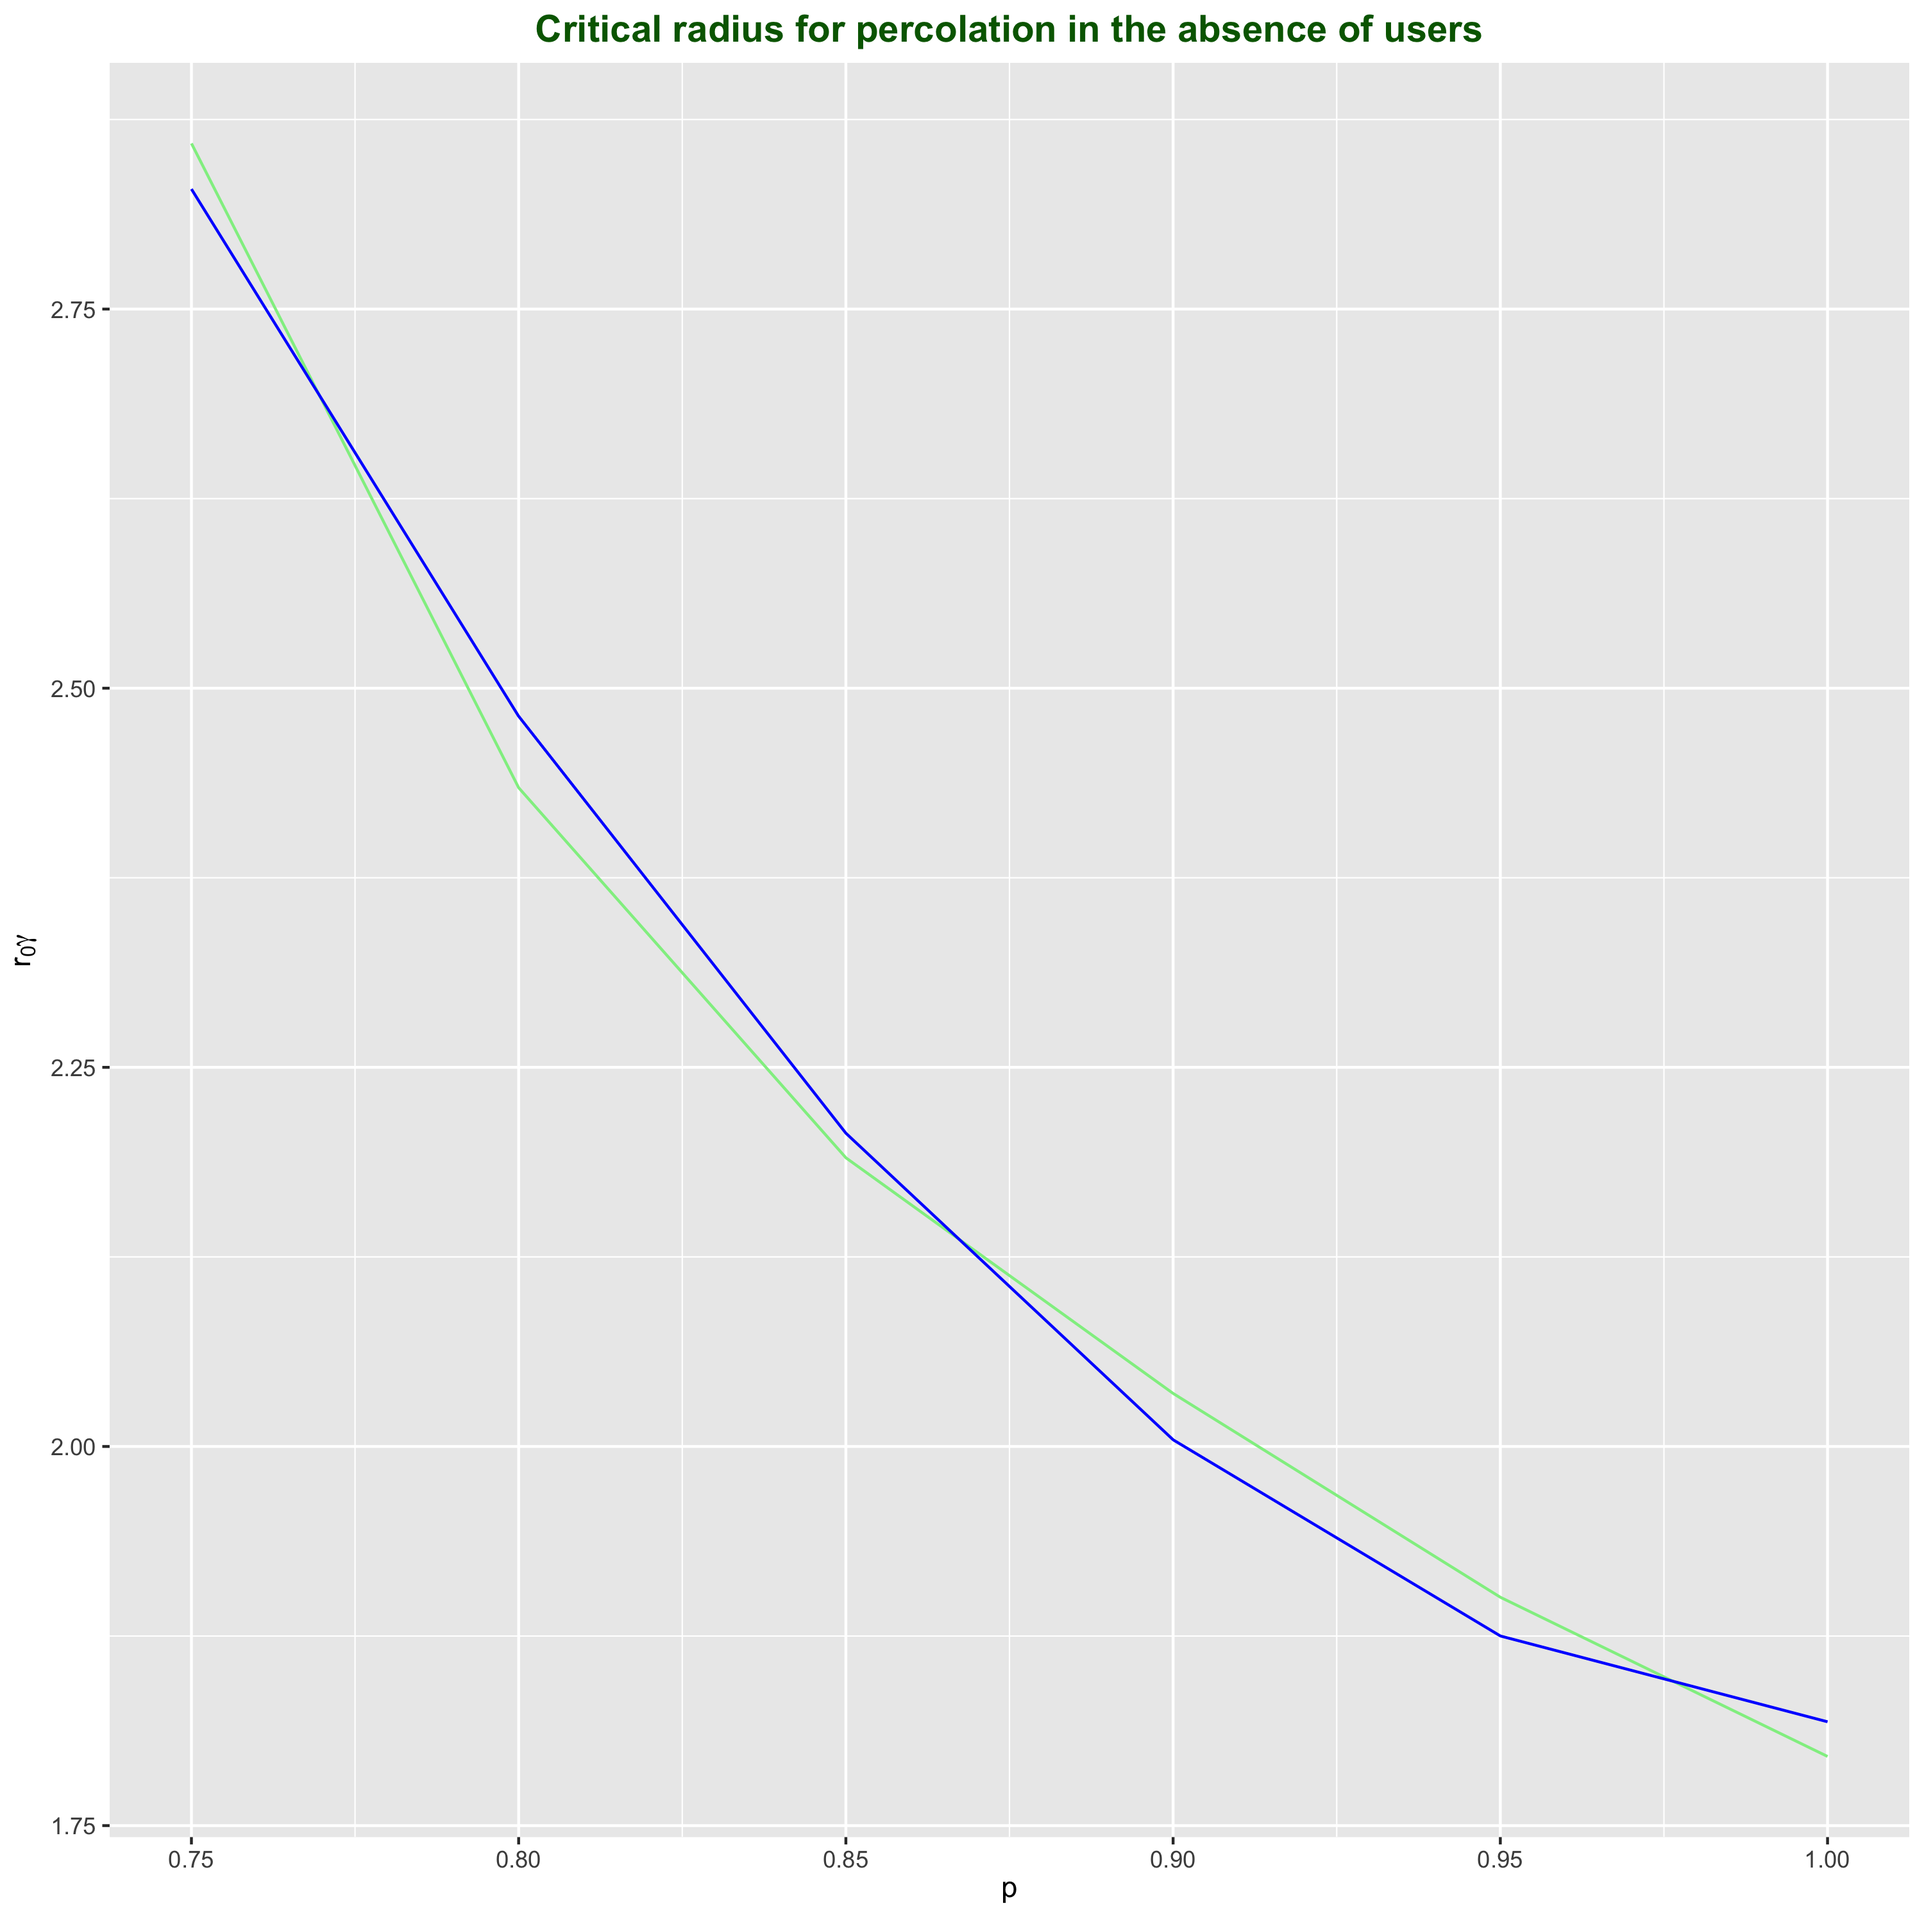
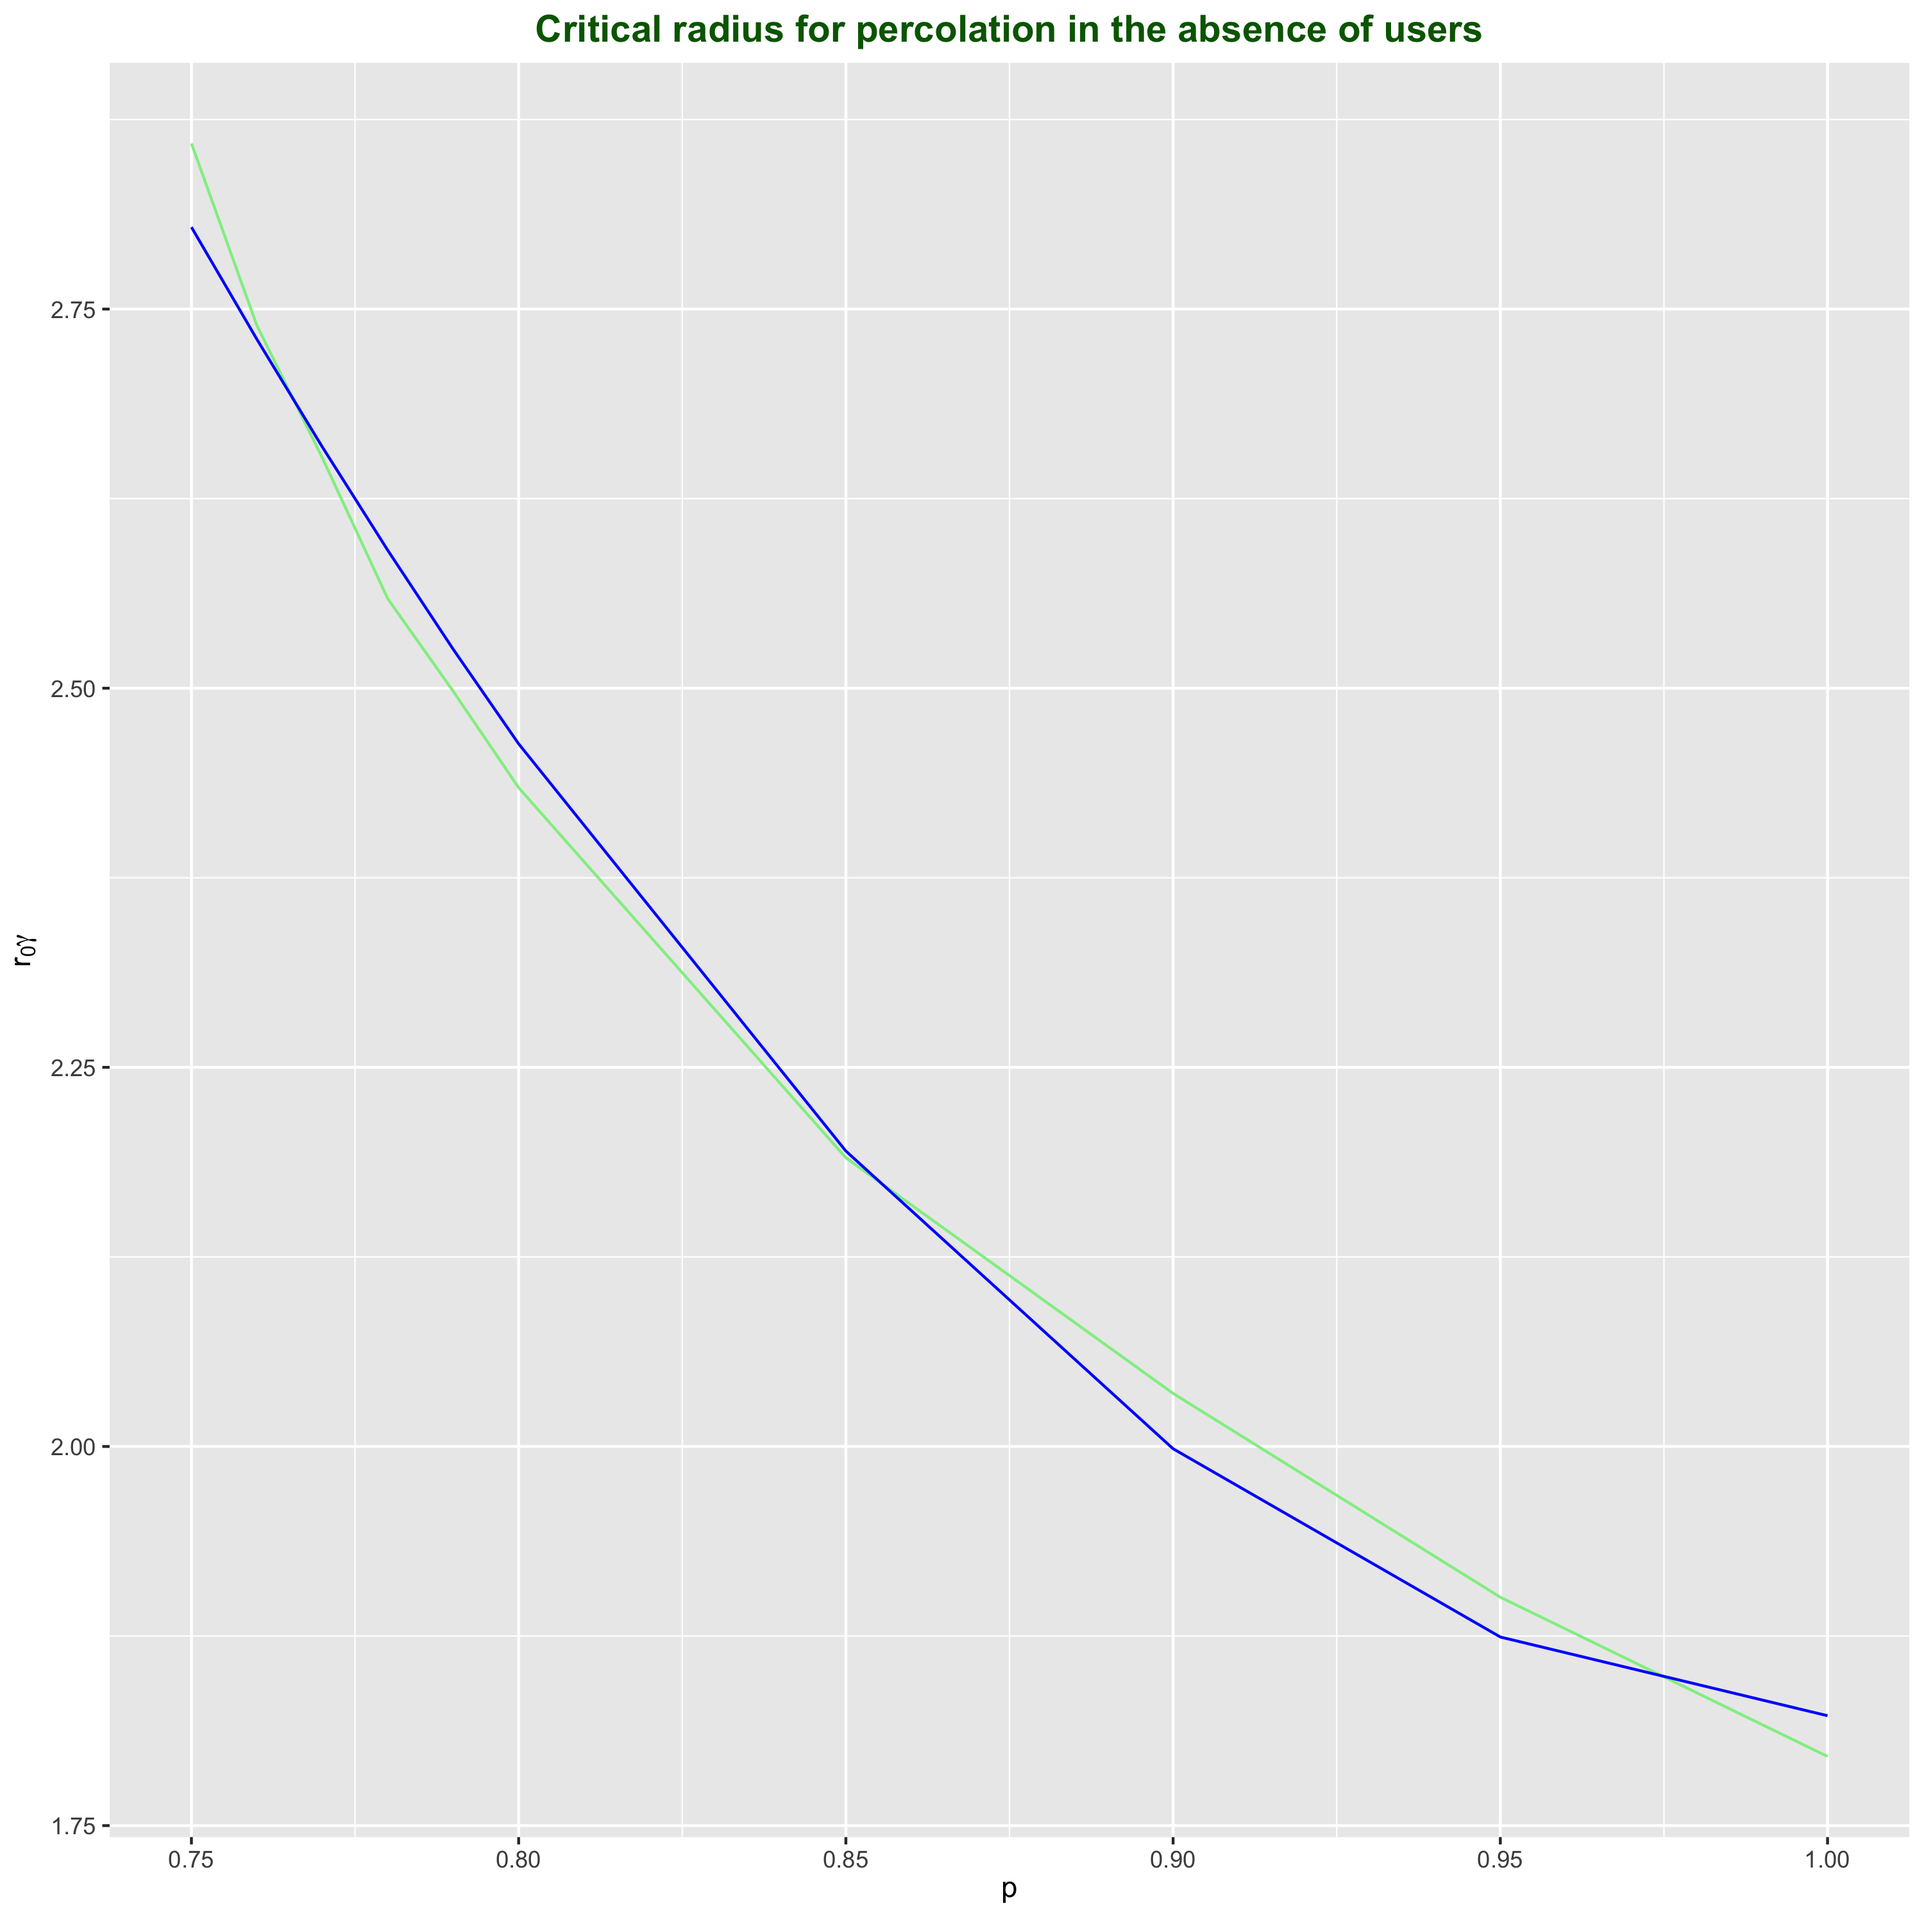
Updates from ShareLaTeX

diff --git a/article.tex b/article.tex
@@ -170,10 +170,10 @@ Therefore, we compute the proportion for a grid of values of $r$ the proportion 
 $p$ & $r_{0}\gamma$ & $r_{0}$ (meters), urban environment \\
 \hline
 0.75 & 2.8592 & 142.96  \\
-0.76 & &  \\
-0.77 & &  \\
-0.78 & &  \\
-0.79 & &  \\
+0.76 & 2.7392 & 136.96 \\
+0.77 & 2.6519 & 132.60 \\
+0.78 & 2.559 & 127.95  \\
+0.79 & 2.498 & 124.90 \\
 0.80 & 2.4344 & 121.72  \\
 0.85 & 2.1904 & 109.52 \\
 0.90 & 2.035 & 101.75 \\
@@ -199,13 +199,13 @@ r_{0}\gamma = ap + bp^{2} + c
 The coefficients $a$, $b$ and $c$ can be estimated by linear regression:
 \begin{equation}
 \begin{array}{l}
-a \approx 14.55 \\
-b \approx -29.51 \\
-c \approx 16.78
+a \approx -29.20 \\
+b \approx 14.44 \\
+c \approx 16.58
 \end{array}
 \end{equation}
 %(Intercept)           p          p2 
-   %16.77585   -29.51024    14.55286 
+   %16.57854   -29.19583    14.43975 
 \\
 \indent Nevertheless, the D2D communication threshold $r$ is fixed by the technology used and, in practice, remains a parameter on which operators do not have any leverage, unless if they massively invest in research and development. Hence the need for a positive user density so as to try to ensure connectivity of the network. At a short time scale, user density is a physical parameter on which operators could have leverage on, e.g. via commercial means so as to incentivize users to take part in a multihop D2D network.
 
